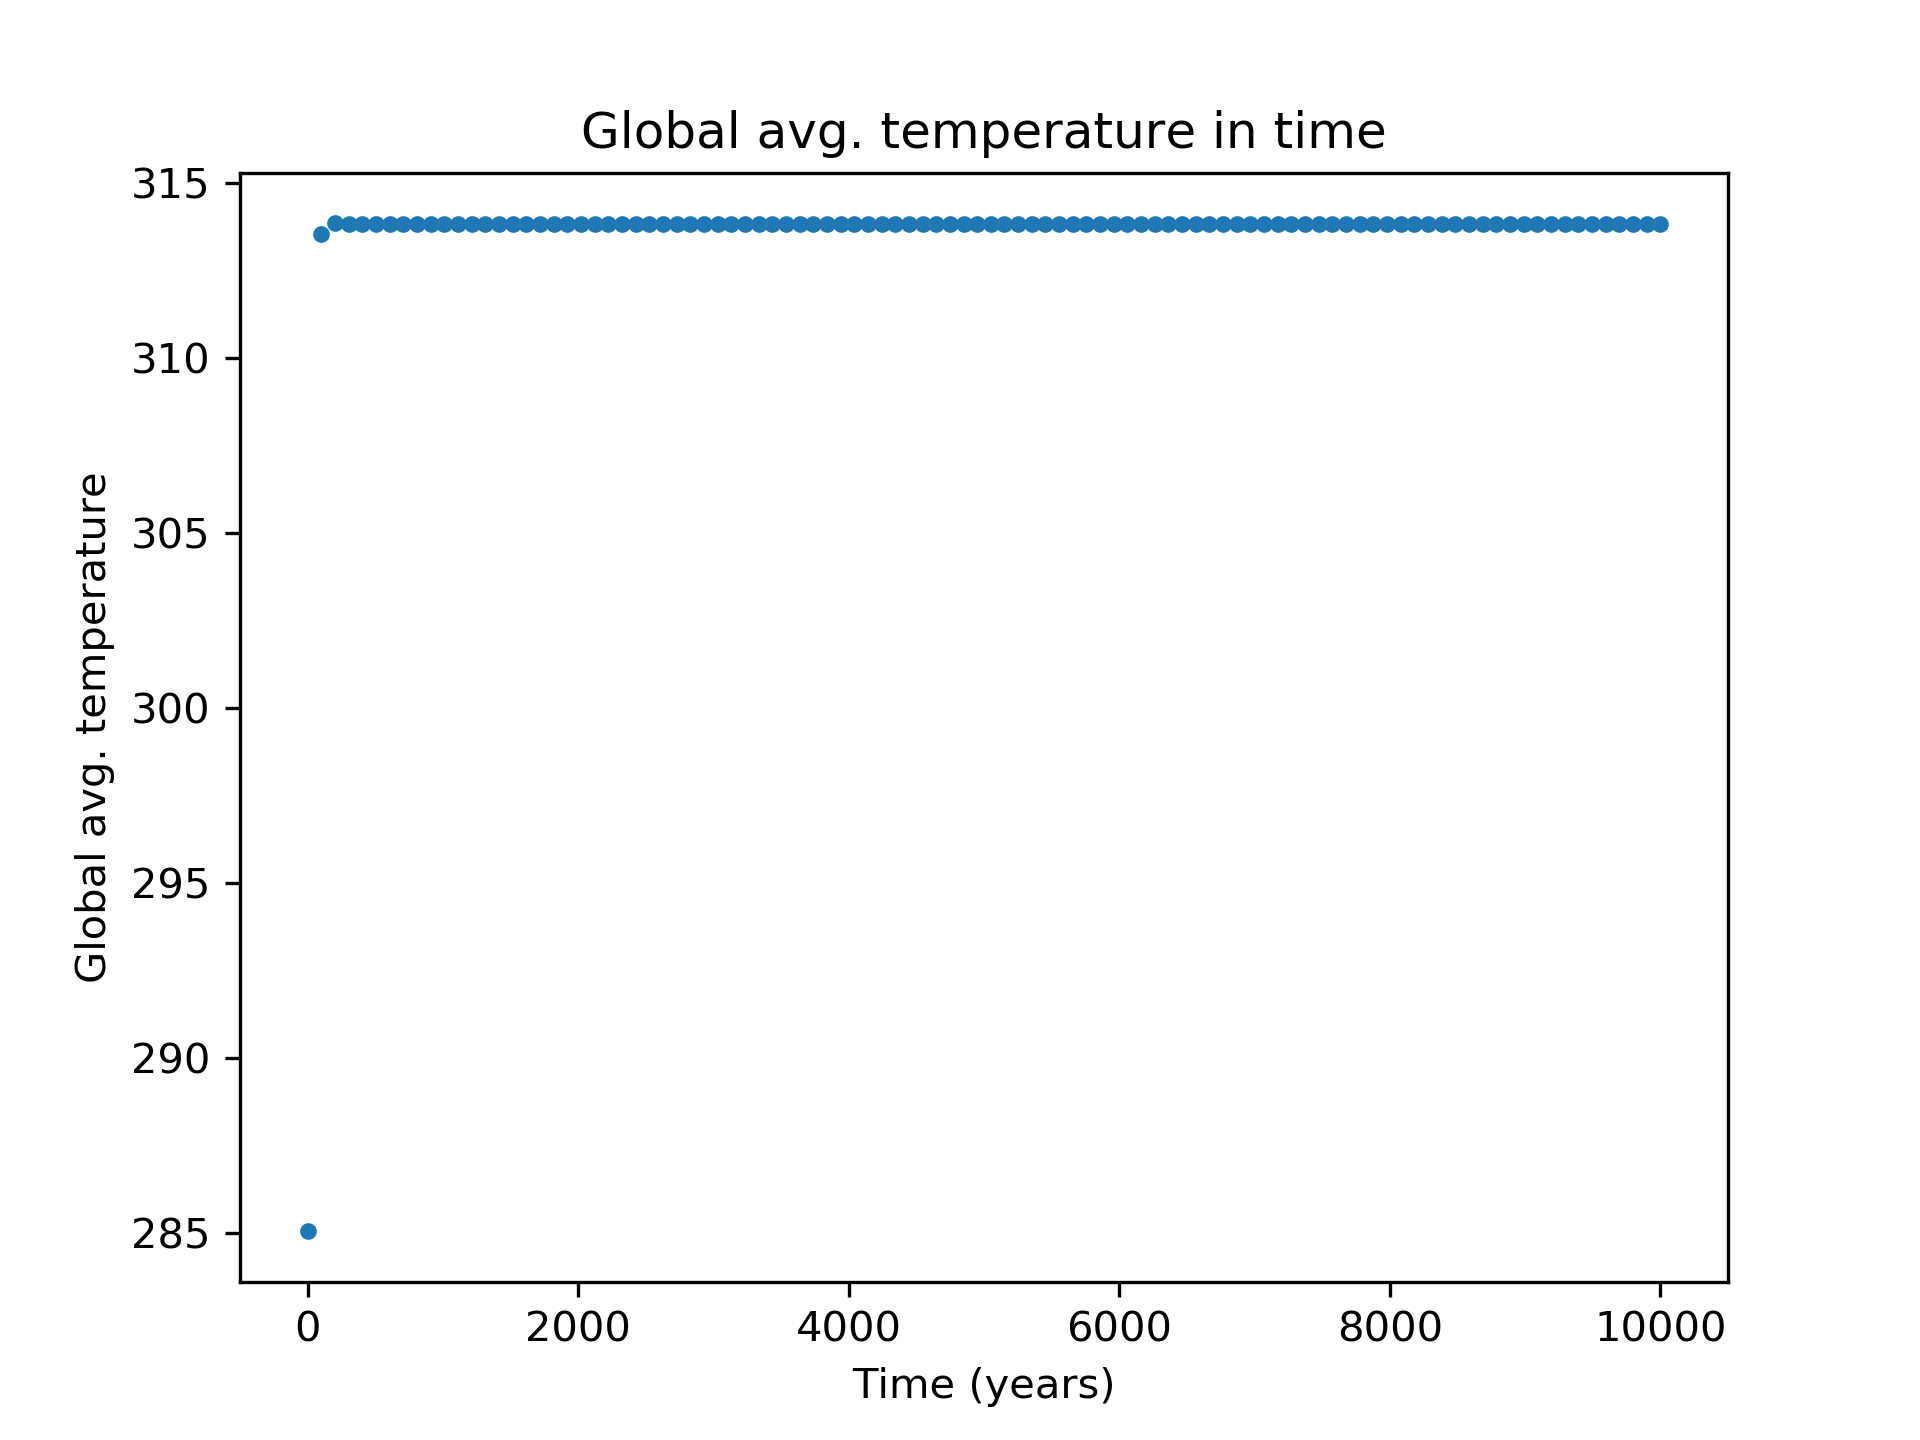
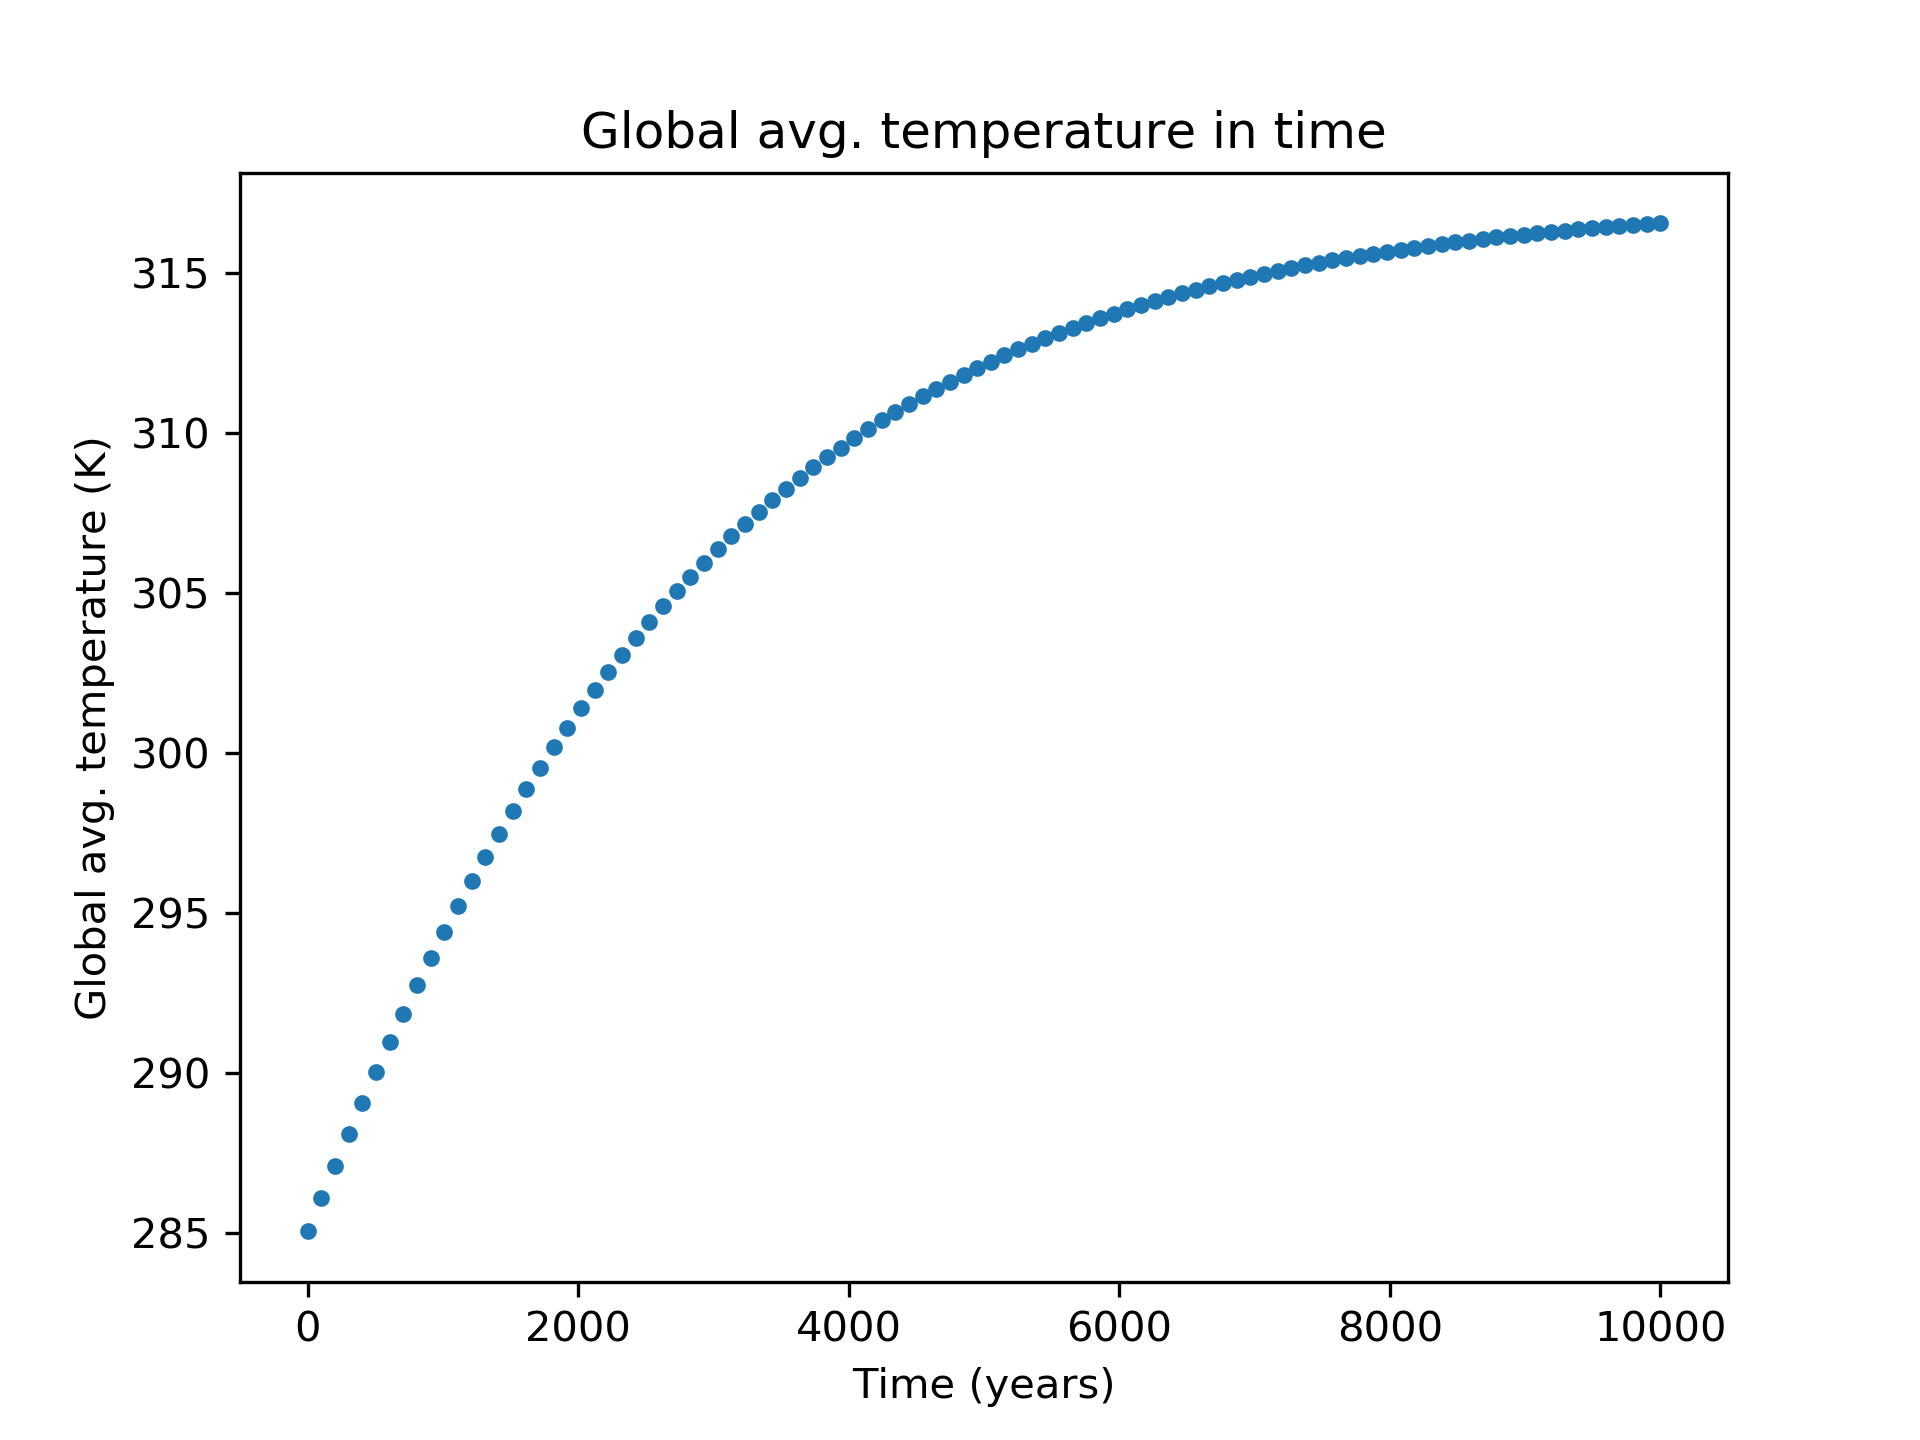
lab05

diff --git a/Clasp410/Lab05/src/solve-pde.py b/Clasp410/Lab05/src/solve-pde.py
@@ -4,7 +4,7 @@
 #
 #   Author: Prithvi Thakur
 #   Written in: Python v3.6.6
-#   Last Modified: 10-30-2018
+#   Last Modified: 11-20-2018
 #
 #   Clasp 410 Lab 5: Snowball earth
 #                   Solve the pde
@@ -27,7 +27,7 @@ Re = 6371e3     # Radius of earth
 So = 1367       # Solar Flux
 Cp = 4.2e6      # Heat Capacity of sea water
 dz = 50         # Depth of mixed ocean layer
-λ = 100         # Thermal Diffusivity
+λ = 10000         # Thermal Diffusivity
 ε = 0.4         # Emissivity
 σ = 5.67e-8     # Steffan-Boltzmann constant
 α = 0.3         # Albedo
@@ -113,7 +113,7 @@ def boundary(K, Δy):
     K[-1,-1] = -1
     return K/(Δy**2)
 
-# forcing term
+# area forcing term
 def forcing(T, area, Δy):
     # T_(i+1) - T_(i-1)
     tdiff = T[2::] - T[0:-2]
@@ -130,14 +130,14 @@ def forcing(T, area, Δy):
 
 # Main function
 def main():
-    global Re, λ
+    global Re , λ
 
     # Number of latitude bands: space discretization
     Nx = 18
 
     # Number of timesteps: time dicretization
     yr2sec = 365*24*60*60
-    dt = 1*yr2sec; tmax = 10000*yr2sec
+    dt = 1*yr2sec; tmax = 20000*yr2sec
     Nt = int(tmax/dt)
 
     # Domain discretization
@@ -165,18 +165,13 @@ def main():
     for j in range(1, Nt):
         
         # Area term
-        f = forcing(T[:,j-1], ar, Δy)
+        f1 = forcing(T[:,j-1], ar, Δy)
         
         # Incoming radiation term
         f2 = incoming_radiation(Sy, T[:,j-1])
-        
-        # Net forcing term
-        f_net = f + f2
-
-        #  print(f_net)
 
         L = np.eye(Nx) - dt*λ*K
-        b = T[:,j-1] + λ*dt*f_net
+        b = T[:,j-1] + dt*(λ*f1 + f2)
 
         T[:, j] = np.linalg.solve(L,b)
    
@@ -186,7 +181,7 @@ def main():
     tplot(T[:,0::it], Nx)
     energy_check(T[:,0::it], ar, tmax/yr2sec)
     
-    return T, ar
+    return T
 
 # Plot temperature isolines
 def tplot(T, Nx):
@@ -195,11 +190,25 @@ def tplot(T, Nx):
 
     ax.plot(T, np.linspace(-90,90,Nx), "k--", lw=0.4)
 
-    ax.set_xlabel("Temperature")
+    ax.set_xlabel("Temperature (K)")
     ax.set_ylabel("Latitude")
     ax.set_title("Q2 : Temperature contours (N=18 points)")
-    filename = os.path.join(path, 'tcont_q2.png')
-    plt.savefig(filename, dpi=300)
+    filename = os.path.join(path, 'tcont_q2b.png')
+    #  plt.savefig(filename, dpi=300)
+    plt.show()
+
+# Diffusivity vs. global steady state 
+def diff_plot(T, Nx):
+    fig = plt.figure()
+    ax = fig.add_subplot(111)
+
+    ax.plot(T, np.linspace(-90,90,Nx), "k--", lw=0.4)
+
+    ax.set_xlabel("Global steady state temperature (K)")
+    ax.set_ylabel("Latitude")
+    ax.set_title("Q2 : Steady state temperature for different diffusivity (N=18 points)")
+    filename = os.path.join(path, 'tdiff_q2b.png')
+    #  plt.savefig(filename, dpi=300)
     plt.show()
 
 # Check if the energy is conserved
@@ -216,10 +225,10 @@ def energy_check(T, area, tmax):
     ax.plot(x_axis, Tavg, ".")
 
     ax.set_xlabel("Time (years)")
-    ax.set_ylabel("Global avg. temperature")
+    ax.set_ylabel("Global avg. temperature (K)")
     ax.set_title("Global avg. temperature in time")
-    filename = os.path.join(path, 'tavg_q2.png')
-    plt.savefig(filename, dpi=300)
+    filename = os.path.join(path, 'tavg_q2b.png')
+    #  plt.savefig(filename, dpi=300)
     plt.show()
 
-T, area = main()
+T = main()
